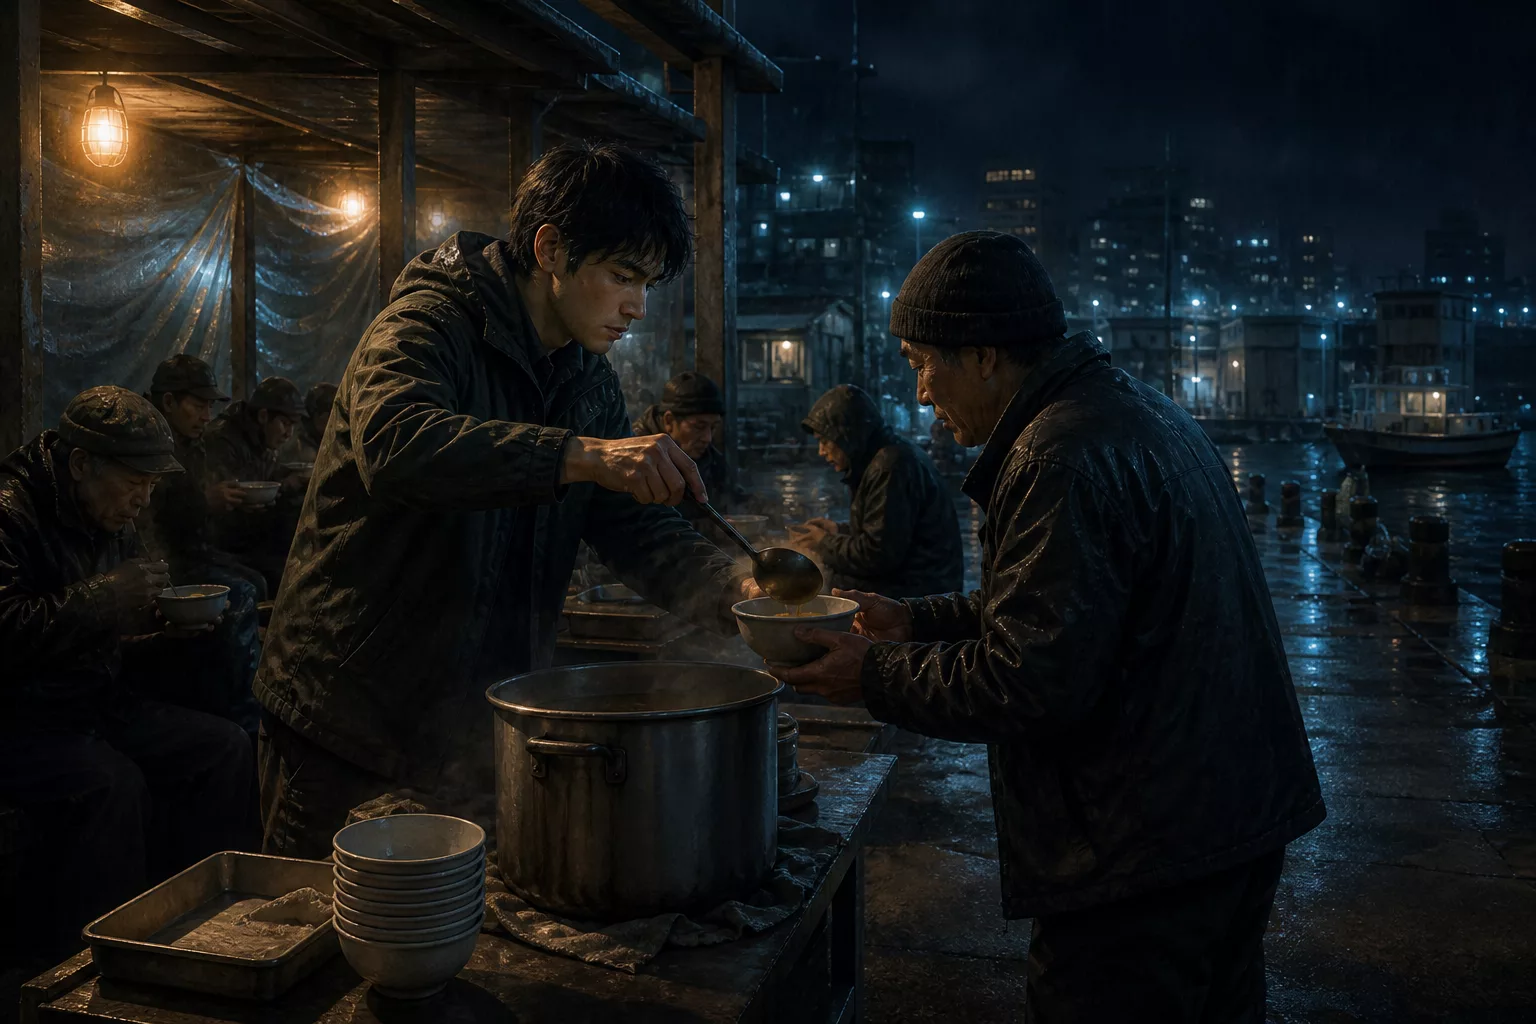
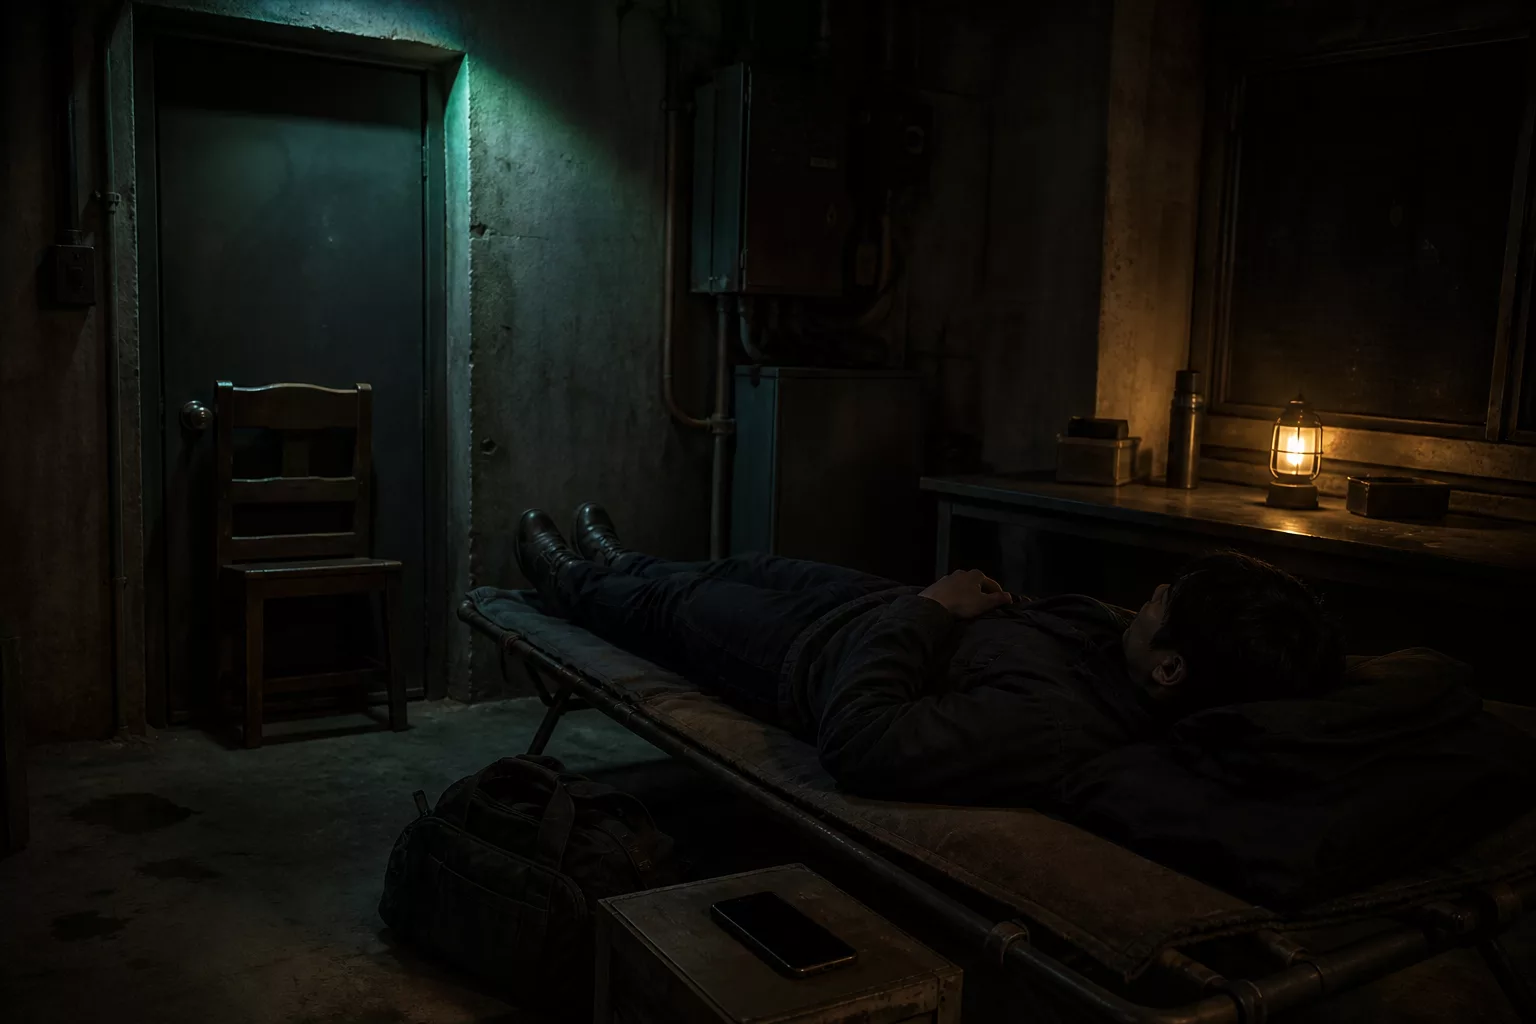
Correct safe-corner night artwork

diff --git a/docs/IMAGE_ASSETS.md b/docs/IMAGE_ASSETS.md
@@ -135,3 +135,5 @@ Built-in ImageGen produced 90 distinct choice masters for the `sidequest`, `dail
 - Visual style: realistic modern East Asian harbor crime noir, deep blue-green and concrete gray, restrained amber and mint practical lighting, grounded contemporary locations and technology.
 - Constraints: absolutely no visible text, pseudo-writing, letters, numbers, signage, license plates, UI glyphs, brands, logos, watermarks, excessive neon, futuristic technology, gore, or graphic injury. Printed and display surfaces were requested blank or fully obscured.
 - QA: all 90 finals were reviewed together in a labeled contact sheet for semantic alignment, focal-action readability, character use, composition, and obvious prohibited marks. Night-combat entries show mission entry or pre-action tension without graphic harm. One initial basic-treatment prompt was rejected by output moderation and was safely regenerated as calm support-wrap care with no injury detail.
+
+Review fix round 1 regenerated `activity-night-night_shelter--night_shelter.webp` to match the live action "找個安全角落過夜": the player locks a hidden utility room, keeps a chair at the entrance, silences a face-down dark phone, places an unmarked bag within reach, and sleeps fully clothed on a simple cot. The replacement contains no shelter meal service, outdoor aid scene, visible text, pseudo-writing, or interface glyphs.
